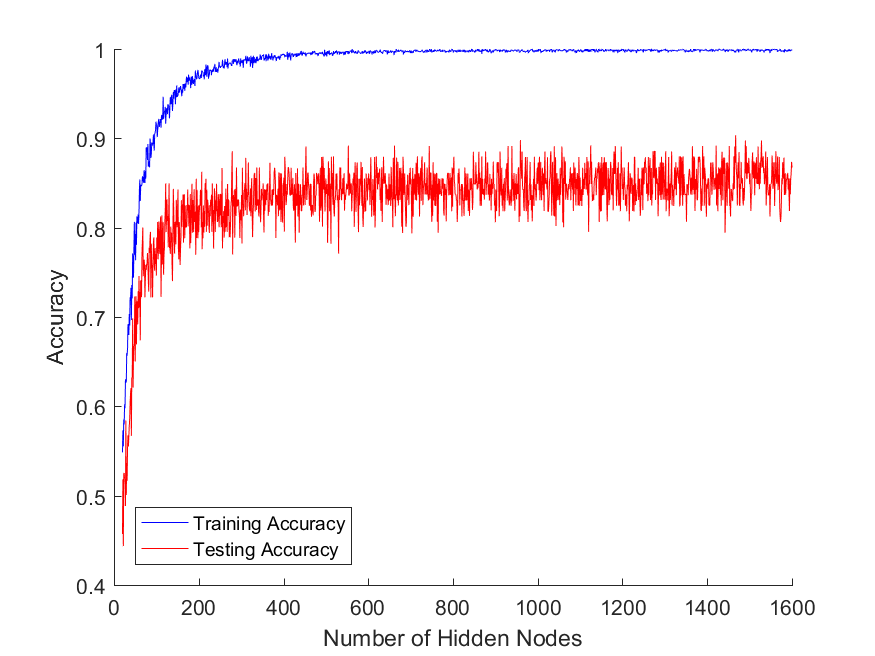
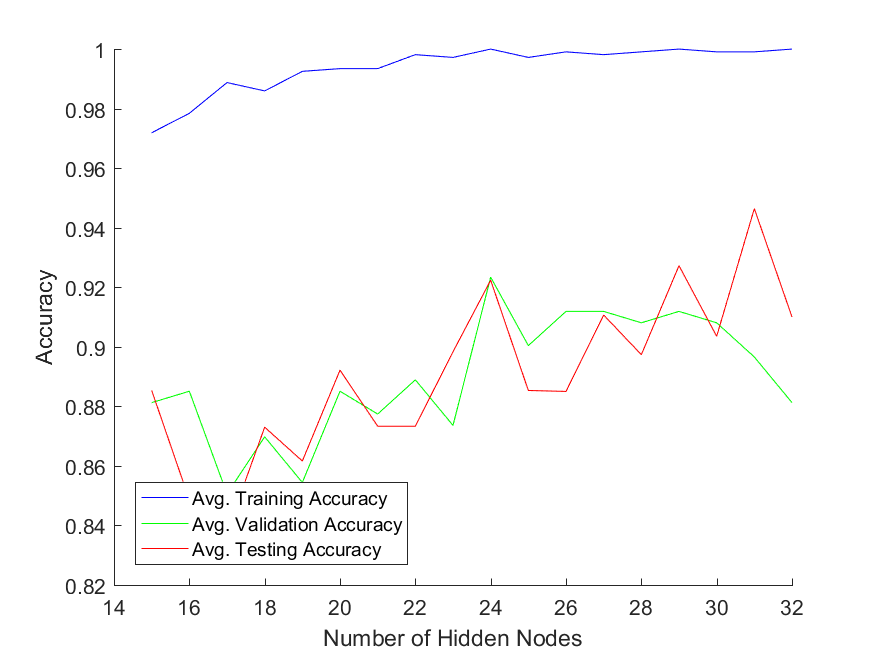
working on tests w/ validation sets

diff --git a/ANN/ANN.m b/ANN/ANN.m
@@ -212,7 +212,7 @@ classdef ANN
                 training_idxs = training_idxs(randperm(length(training_idxs)));
                 
                 % Separate training data into training (80%) and validation (20%)
-                training_percent = ceil(length(training_idxs) * 0.80);
+                training_percent = ceil(length(training_idxs) * .80);
                 validation_idxs = training_idxs(training_percent + 1:end);
                 training_idxs = training_idxs(1:training_percent);
                 
@@ -227,7 +227,7 @@ classdef ANN
                 s_testing_fields = shuffled_fields(testing_idxs,:);
                 s_testing_classes = shuffled_classes(testing_idxs);
                 
-                [ann,training_accuracy,validation_accuracy,testing_accuracy] = train_ANN(ann,s_training_fields,s_training_classes, ...
+                [~,training_accuracy,validation_accuracy,testing_accuracy] = train_ANN(ann,s_training_fields,s_training_classes, ...
                                                                                             s_validation_fields,s_validation_classes, ...
                                                                                             s_testing_fields,s_testing_classes);
                 s_training_accuracies(i,:) = [i,training_accuracy(:,2)'];
@@ -246,67 +246,6 @@ classdef ANN
                 fprintf('Mean Validation Accuracy: %f%%\n',mean(s_validation_accuracies(:,2)) * 100);
                 fprintf('Mean Testing Accuracy: %f%%\n',mean(s_testing_accuracies(:,2)) * 100);
             end  
-        end
-        
-        function [ s_training_accuracies,s_testing_accuracies ] = dual_validate_ANN( ann,S,fields,classes )
-            [ folding_fields, ...
-              folding_classes, ...
-              validation_fields, ...
-              validation_classes ] = get_training_and_testing_sets(fields,classes);
-            
-            num_data_rows = size(folding_fields,1);
-            s_folds = cvpartition(num_data_rows,'k',S);
-
-            shuffled_idxs = randperm(num_data_rows);
-            shuffled_classes = folding_classes(shuffled_idxs);
-            shuffled_fields = folding_fields(shuffled_idxs,:);
-
-            s_training_accuracies = zeros(S,2);
-            s_testing_accuracies = zeros(S,2);
-
-            for i=1:S
-                idxs = training(s_folds,i);
-
-                training_idxs = find(idxs);
-                s_training_fields = shuffled_fields(training_idxs,:);
-                s_training_classes = shuffled_classes(training_idxs);
-
-                testing_idxs = find(~idxs);
-                s_testing_fields = shuffled_fields(testing_idxs,:);
-                s_testing_classes = shuffled_classes(testing_idxs);
-                
-                % Compute initial ANN
-                [~,~,ann] = train_ANN(ann,s_training_fields,s_training_classes,s_testing_fields,s_testing_classes);
-                
-                % Validation set parameters
-                val_learning_rates = 0.25:0.25:10;
-                val_hidden_nodes = 20:1:400;
-
-                val_accuracies = zeros(numel(val_learning_rates) * numel(val_hidden_nodes) , 3);
-                
-                % Use validation set to fine tune learning rate (eta) and
-                % number of hidden nodes
-                idx = 1;
-                for lr=1:numel(val_learning_rates)
-                    ann.eta = val_learning_rates(lr);
-                    for hn=1:numel(val_hidden_nodes)
-                        ann.num_hidden_nodes = val_hidden_nodes(hn);
-                        [validation_accuracy,~,ann] = train_ANN(ann,s_training_fields,s_training_classes,validation_fields,validation_classes);
-                        val_accuracies(idx,:) = [ann.eta, ann.num_hidden_nodes, validation_accuracy];
-                        idx = idx + 1;
-                    end
-                end
-                
-                % Get optimal values
-                [~,optimal_idx] = max(val_accuracies(:,3));
-                ann.eta = val_accuracies(optimal_idx,1);
-                ann.num_hidden_nodes = val_learning_rates(optimal_idx,2);
-                
-                % Retrain with optimal values
-                [testing_accuracy,training_accuracy,ann] = train_ANN(ann,s_training_fields,s_training_classes,s_testing_fields,s_testing_classes);
-                s_training_accuracies(i,:) = [i,training_accuracy(end,2)];
-                s_testing_accuracies(i,:) = [i,testing_accuracy];
-            end
         end
         
         function s = control_flow_str( ann )

diff --git a/ANN/multi_class_ANN_param_tester.m b/ANN/multi_class_ANN_param_tester.m
@@ -19,14 +19,17 @@ ann.should_plot_train = true;
 %[~,training_accuracy,validation_accuracy,testing_accuracy] = train_ANN(ann,training_fields,training_classes,validation_fields,validation_classes,testing_fields,testing_classes);
 ann.should_plot_train = false;
 ann.should_plot_s_folds = true;
-cross_validate_ANN(ann,S,fields,classes);
+[ann,s_training_accuracies,s_validation_accuracies,s_testing_accuracies] = cross_validate_ANN(ann,S,fields,classes);
+%% S Folds Testing
+
 
 %% Iteration Testing
 start_pt = 1;
 end_pt = 2000;
 training_iters = start_pt:10:end_pt;
-training_accuracies = zeros(numel(training_iters),S + 1);
-testing_accuracies = zeros(numel(training_iters),S + 1);
+training_accuracies = zeros(numel(training_iters),S+1);
+validation_accuracies = zeros(numel(training_iters),S+1);
+testing_accuracies = zeros(numel(training_iters),S+1);
 
 iter_test_ANN = ANN;
 
@@ -34,21 +37,20 @@ for i=1:numel(training_iters)
     num_iters = training_iters(i);
     disp(num_iters);
     iter_test_ANN.training_iters = num_iters;
-%     [testing_accuracy,training_accuracy] = train_ANN(iter_test_ANN,training_fields,training_classes,testing_fields,testing_classes);
-%     training_accuracies(i,:) = [num_iters,training_accuracy(end,2)];
-%     testing_accuracies(i,:) = [num_iters,testing_accuracy];
 
     rng(0);
-    [s_training_accuracies,s_testing_accuracies] = cross_validate_ANN(iter_test_ANN,S,fields,classes);
-    training_accuracies(i,:) = [num_iters,s_training_accuracies(:,2)'];
+    [~,s_training_accuracies,s_validation_accuracies,s_testing_accuracies] = cross_validate_ANN(iter_test_ANN,S,fields,classes);
+    training_accuracies(i,:) = [num_iters,s_training_accuracies(:,end)'];
+    validation_accuracies(i,:) = [num_iters,s_validation_accuracies(:,2)'];
     testing_accuracies(i,:) = [num_iters,s_testing_accuracies(:,2)'];
 end
 
 fig = figure();
 hold on;
 plot(training_accuracies(:,1), mean(training_accuracies(:,2:S+1),2),'b');
+plot(validation_accuracies(:,1), mean(validation_accuracies(:,2:S+1),2),'g');
 plot(testing_accuracies(:,1), mean(testing_accuracies(:,2:S+1),2),'r');
-legend('Training Accuracy','Testing Accuracy','Location','southwest')
+legend('Avg. Training Accuracy', 'Avg. Validation Accuracy', 'Avg. Testing Accuracy','Location','southwest')
 xlabel('Number of Iterations');
 ylabel('Accuracy');
 hold off;
@@ -57,34 +59,33 @@ saveas(fig,'../Latex/figs/num_iterations_empirical.png');
 save('../Data/num_iterations_empirical','training_accuracies','testing_accuracies')
 
 %% Number of Hidden Nodes Testing
-start_pt = 20;
-end_pt = 1600;
+start_pt = 15;
+end_pt = 32;
 num_hidden_nodes = start_pt:1:end_pt;
 training_accuracies = zeros(numel(num_hidden_nodes),S + 1);
+validation_accuracies = zeros(numel(num_hidden_nodes),S+1);
 testing_accuracies = zeros(numel(num_hidden_nodes),S + 1);
 
 hidden_nodes_ANN_test = ANN;
-hidden_nodes_ANN_test.training_iters = 20;
 
 for i=1:numel(num_hidden_nodes)
     num_hidden = num_hidden_nodes(i);
     disp(num_hidden);
     hidden_nodes_ANN_test.num_hidden_nodes = num_hidden;
-%     [testing_accuracy,training_accuracy] = train_ANN(hidden_nodes_ANN_test,training_fields,training_classes,testing_fields,testing_classes);
-%     training_accuracies(i,:) = [num_hidden,training_accuracy(end,2)];
-%     testing_accuracies(i,:) = [num_hidden,testing_accuracy];
 
     rng(0);
-    [s_training_accuracies,s_testing_accuracies] = cross_validate_ANN(hidden_nodes_ANN_test,S,fields,classes);
-    training_accuracies(i,:) = [num_hidden,s_training_accuracies(:,2)'];
+    [~,s_training_accuracies,s_validation_accuracies,s_testing_accuracies] = cross_validate_ANN(hidden_nodes_ANN_test,S,fields,classes);
+    training_accuracies(i,:) = [num_hidden,s_training_accuracies(:,end)'];
+    validation_accuracies(i,:) = [num_hidden,s_validation_accuracies(:,2)'];
     testing_accuracies(i,:) = [num_hidden,s_testing_accuracies(:,2)'];
 end
 
 fig = figure();
 hold on;
 plot(training_accuracies(:,1), mean(training_accuracies(:,2:S+1),2),'b');
+plot(validation_accuracies(:,1), mean(validation_accuracies(:,2:S+1),2),'g');
 plot(testing_accuracies(:,1), mean(testing_accuracies(:,2:S+1),2),'r');
-legend('Training Accuracy','Testing Accuracy','Location','southwest')
+legend('Avg. Training Accuracy', 'Avg. Validation Accuracy', 'Avg. Testing Accuracy','Location','southwest')
 xlabel('Number of Hidden Nodes');
 ylabel('Accuracy');
 hold off;
